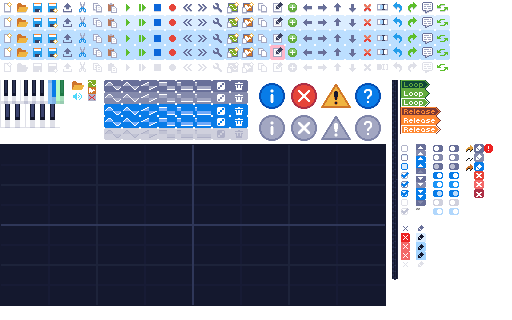
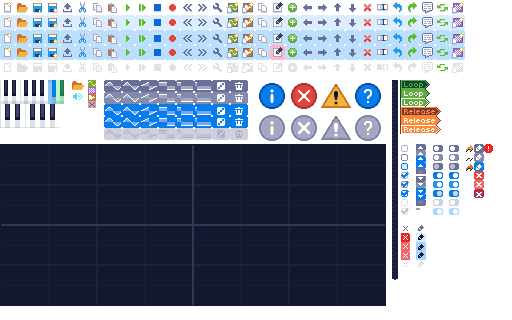
Adds noise generator

Changed region(s): [[0.875, 0.0, 0.9062, 0.25], [0.1562, 0.25, 0.1875, 0.3438]]

diff --git a/Source/Audio/Channel.cs b/Source/Audio/Channel.cs
@@ -1,4 +1,5 @@
-using System;
+using Microsoft.Xna.Framework;
+using System;
 using System.Collections.Generic;
 using System.Runtime.CompilerServices;
 using WaveTracker.Tracker;
@@ -107,6 +108,14 @@ namespace WaveTracker.Audio {
         private float targetFilterCutoffFrequency;
         private float _filterCutoffFrequency;
         private int currentInstrumentID;
+
+        private static Random random = new Random();
+        private double _noiseTime;
+        private float noiseValueC;
+        private float noiseValueL;
+        private float noiseValueR;
+        private static float[] shortNoiseSample;
+        private int noiseLength;
         private enum VoiceState { On, Off, Release }
         private VoiceState _state;
         public bool IsPlaying {
@@ -129,6 +138,11 @@ namespace WaveTracker.Audio {
                 for (int i = 0; i < defaultEnvelopes.Length; i++) {
                     defaultEnvelopes[i] = new Envelope((Envelope.EnvelopeType)i);
                 }
+            }
+            shortNoiseSample = new float[44100*4];
+            noiseLength = shortNoiseSample.Length;
+            for (int i = 0; i < shortNoiseSample.Length; i++) {
+                shortNoiseSample[i] = random.Next() % 4 / 3f - 0.5f;
             }
             stereoBiQuadFilter = new StereoBiQuadFilter();
             Reset();
@@ -425,9 +439,12 @@ namespace WaveTracker.Audio {
         /// </summary>
         public float CurrentAmplitude {
             get {
-                return CurrentInstrument is WaveInstrument
-                    ? TotalAmplitude * (_state == VoiceState.Off ? 0 : 1)
-                    : TotalAmplitude * (_sampleVolume / 1.5f + 0.01f) * (_state == VoiceState.Off ? 0 : 1);
+                if (CurrentInstrument is SampleInstrument) {
+                    return (float)(TotalAmplitude * (_sampleVolume / 1.5f + 0.01f) * (_state == VoiceState.Off ? 0 : 1));
+                }
+                else {
+                    return (float)(TotalAmplitude * (_state == VoiceState.Off ? 0 : 1));
+                }
             }
         }
 
@@ -660,6 +677,16 @@ namespace WaveTracker.Audio {
                 ApplyEffect((char)t.value, t.value2);
             }
         }
+        [MethodImpl(MethodImplOptions.AggressiveInlining)]
+        private float GetNoiseValue(double sample) {
+            return shortNoiseSample[(int)sample % noiseLength];
+            int index1 = (int)sample;
+            int index2 = index1 + 1;
+            float lerp = (float)sample - index1;
+            float sample1 = shortNoiseSample[index1 % noiseLength];
+            float sample2 = shortNoiseSample[index2 % noiseLength];
+            return MathHelper.Lerp(sample1, sample2, lerp);
+        }
 
         public void ProcessSingleSample(out float left, out float right, float continuousDelta) {
             ContinuousTick(continuousDelta);
@@ -695,8 +722,41 @@ namespace WaveTracker.Audio {
                             sampleR = sampleL = EvaluateWave((float)_time);
                         }
                     }
-                    else {
+                    else if (CurrentInstrument is NoiseInstrument) {
+                        double pitchIndex = (CurrentPitch + 12) % 24 / 24f;
+                        double factor = (1 - pitchIndex) * 8 + 1;
+                        factor = Math.Pow(2.0, factor) - 1;
+                        _noiseTime += 88200f / AudioEngine.TrueSampleRate / factor;
+                        if (_noiseTime > noiseLength) {
+                            _noiseTime -= (int)(_noiseTime / noiseLength) * noiseLength;
+                        }
+                        //if (_noiseTime > noiseLength) {
+                        //    _noiseTime -= noiseLength;
+                        //}
+                        //    _noiseTime -= (int)(_noiseTime / factor) * factor;
+                        //    noiseValueL = random.Next() % 5 / 4f - 0.5f;
+                        //    noiseValueC = random.Next() % 5 / 4f - 0.5f;
+                        //    noiseValueR = random.Next() % 5 / 4f - 0.5f;
+                        //}
+                        //sampleL = noiseValueC * (1 - stereoPhaseOffset) + noiseValueL * stereoPhaseOffset;
+                        //sampleR = noiseValueC * (1 - stereoPhaseOffset) + noiseValueR * stereoPhaseOffset;
+                        noiseValueC = GetNoiseValue(_noiseTime);
+                        if (stereoPhaseOffset != 0) {
+                            noiseValueL = GetNoiseValue(_noiseTime + noiseLength * 0.666f);
+                            noiseValueR = GetNoiseValue(_noiseTime + noiseLength * 0.333f);
+                            sampleL = (noiseValueC * (1 - stereoPhaseOffset) + noiseValueL * stereoPhaseOffset) / bassBoost;
+                            sampleR = (noiseValueC * (1 - stereoPhaseOffset) + noiseValueR * stereoPhaseOffset) / bassBoost;
+                        }
+                        else {
+                            sampleL = sampleR = noiseValueC;
+                        }
+                        //noiseValueC = GetNoiseValue((int)(_noiseTime / factor), 0);
+                        //noiseValueL = GetNoiseValue((int)(_noiseTime / factor), 0.33f);
+                        //noiseValueR = GetNoiseValue((int)(_noiseTime / factor), -0.33f);
+                    }
+                    else if (CurrentInstrument is SampleInstrument) {
                         CurrentSample?.SampleTick((float)_time, stereoPhaseOffset, SampleStartOffset / 100f, out sampleL, out sampleR);
+
                         sampleL *= 1.25f;
                         sampleR *= 1.25f;
                         SamplePlaybackPosition = CurrentSample?.currentPlaybackPosition ?? 0;

diff --git a/Source/UI/Visualizer.cs b/Source/UI/Visualizer.cs
@@ -151,20 +151,31 @@ namespace WaveTracker.UI {
                 Channel chan;
                 for (int c = 0; c < ChannelManager.Channels.Count; c++) {
                     chan = ChannelManager.Channels[c];
-
-                    if ((chan.CurrentInstrument is WaveInstrument || chan.CurrentInstrument is SampleInstrument inst && inst.sample.useInVisualization) && chan.CurrentAmplitude > 0.0001f && chan.CurrentPitch >= 12 && chan.CurrentPitch < 132 && ChannelManager.IsChannelOn(c)) {
-                        channelStates[writeIndex][c].Set(chan.CurrentPitch, chan.CurrentAmplitude, chan.CurrentInstrument is WaveInstrument ? GetColorOfWaveFromTable(chan.WaveIndex, chan.WaveMorphPosition) : Color.White);
-                    }
-                    else {
-                        channelStates[writeIndex][c].Clear();
+                    channelStates[writeIndex][c].Clear();
+                    if (ChannelManager.IsChannelOn(c) && !(chan.CurrentInstrument is SampleInstrument inst && !inst.sample.useInVisualization) && chan.CurrentAmplitude > 0.0001f) {
+                        if (chan.CurrentInstrument is WaveInstrument && chan.CurrentPitch >= 12 && chan.CurrentPitch <= 131) {
+                            channelStates[writeIndex][c].Set(chan.CurrentPitch, chan.CurrentAmplitude, GetColorOfWaveFromTable(chan.WaveIndex, chan.WaveMorphPosition));
+                        }
+                        else if (chan.CurrentInstrument is NoiseInstrument) {
+                            channelStates[writeIndex][c].Set((chan.CurrentPitch + 12) % 24 + 12, chan.CurrentAmplitude, Color.White);
+                        }
+                        else if (chan.CurrentPitch >= 12 && chan.CurrentPitch <= 131) {
+                            channelStates[writeIndex][c].Set(chan.CurrentPitch, chan.CurrentAmplitude, Color.White);
+                        }
                     }
                 }
                 chan = ChannelManager.PreviewChannel;
-                if (chan.CurrentAmplitude > 0.0001f) {
-                    channelStates[writeIndex][24].Set(chan.CurrentPitch, chan.CurrentAmplitude, chan.CurrentInstrument is WaveInstrument ? GetColorOfWaveFromTable(chan.WaveIndex, chan.WaveMorphPosition) : Color.White);
-                }
-                else {
-                    channelStates[writeIndex][24].Clear();
+                channelStates[writeIndex][24].Clear();
+                if (!(chan.CurrentInstrument is SampleInstrument inst1 && !inst1.sample.useInVisualization) && chan.CurrentAmplitude > 0.0001f) {
+                    if (chan.CurrentInstrument is WaveInstrument && chan.CurrentPitch >= 12 && chan.CurrentPitch <= 131) {
+                        channelStates[writeIndex][24].Set(chan.CurrentPitch, chan.CurrentAmplitude, GetColorOfWaveFromTable(chan.WaveIndex, chan.WaveMorphPosition));
+                    }
+                    else if (chan.CurrentInstrument is NoiseInstrument) {
+                        channelStates[writeIndex][24].Set((chan.CurrentPitch + 12) % 24 + 12, chan.CurrentAmplitude, Color.White);
+                    }
+                    else if (chan.CurrentPitch >= 12 && chan.CurrentPitch <= 131) {
+                        channelStates[writeIndex][24].Set(chan.CurrentPitch, chan.CurrentAmplitude, Color.White);
+                    }
                 }
                 Array.Sort(channelStates[writeIndex]);
                 writeIndex++;

diff --git a/Source/Rendering/Colors.cs b/Source/Rendering/Colors.cs
@@ -26,6 +26,7 @@ namespace WaveTracker {
                 { "Row text", Helpers.HexCodeToColor("ffffff") },
                 { "Empty dashes tint", Helpers.HexCodeToColor("ffffff12") },
                 { "Instrument (wave)", Helpers.HexCodeToColor("5aea3d") },
+                { "Instrument (noise)", Helpers.HexCodeToColor("e535ff") },
                 { "Instrument (sample)", Helpers.HexCodeToColor("ff9932") },
                 { "Volume", Helpers.HexCodeToColor("50e7e5") },
                 { "Effect", Helpers.HexCodeToColor("ff5277") },
@@ -86,6 +87,7 @@ namespace WaveTracker {
                 ret["Empty dashes tint"] = Helpers.HexCodeToColor("ffffff50");
 
                 ret["Instrument (wave)"] = Helpers.HexCodeToColor("80ff80");
+                ret["Instrument (noise)"] = Helpers.HexCodeToColor("80ff80");
                 ret["Instrument (sample)"] = Helpers.HexCodeToColor("80ff80");
                 ret["Volume"] = Helpers.HexCodeToColor("8080ff");
                 ret["Effect"] = Helpers.HexCodeToColor("ff8080");
@@ -116,6 +118,7 @@ namespace WaveTracker {
                 ret["Empty dashes tint"] = Helpers.HexCodeToColor("ffffff18");
 
                 ret["Instrument (wave)"] = Helpers.HexCodeToColor("ffe239");
+                ret["Instrument (noise)"] = Helpers.HexCodeToColor("ff860d");
                 ret["Instrument (sample)"] = Helpers.HexCodeToColor("ff860d");
                 ret["Volume"] = Helpers.HexCodeToColor("00fdff");
                 ret["Effect"] = Helpers.HexCodeToColor("ff7af6");
@@ -147,6 +150,7 @@ namespace WaveTracker {
                 ret["Empty dashes tint"] = Helpers.HexCodeToColor("ffffff80");
 
                 ret["Instrument (wave)"] = Helpers.HexCodeToColor("008080");
+                ret["Instrument (noise)"] = Helpers.HexCodeToColor("008080");
                 ret["Instrument (sample)"] = Helpers.HexCodeToColor("008080");
                 ret["Volume"] = Helpers.HexCodeToColor("008000");
                 ret["Effect"] = Helpers.HexCodeToColor("800000");
@@ -178,6 +182,7 @@ namespace WaveTracker {
                 ret["Empty dashes tint"] = Helpers.HexCodeToColor("ffffff0c");
 
                 ret["Instrument (wave)"] = Helpers.HexCodeToColor("d4c1a0");
+                ret["Instrument (noise)"] = Helpers.HexCodeToColor("d4c1a0");
                 ret["Instrument (sample)"] = Helpers.HexCodeToColor("d6afa2");
                 ret["Volume"] = Helpers.HexCodeToColor("a8a7de");
                 ret["Effect"] = Helpers.HexCodeToColor("d28bcb");

diff --git a/Source/UI/InstrumentBank.cs b/Source/UI/InstrumentBank.cs
@@ -58,6 +58,7 @@ namespace WaveTracker.UI {
                         new MenuOption("Move down", MoveDown, CurrentInstrumentIndex < App.CurrentModule.Instruments.Count - 1 && !App.VisualizerMode),
                         null,
                         new MenuOption("Add wave instrument",AddWave, App.CurrentModule.Instruments.Count < 100 && !App.VisualizerMode),
+                        new MenuOption("Add noise instrument",AddNoise,App.CurrentModule.Instruments.Count < 100 && !App.VisualizerMode),
                         new MenuOption("Add sample instrument",AddSample,App.CurrentModule.Instruments.Count < 100 && !App.VisualizerMode),
                         new MenuOption("Duplicate",DuplicateInstrument,App.CurrentModule.Instruments.Count < 100 && !App.VisualizerMode),
                         new MenuOption("Remove",RemoveInstrument,App.CurrentModule.Instruments.Count > 1 && !App.VisualizerMode)
@@ -179,6 +180,13 @@ namespace WaveTracker.UI {
             Goto(App.CurrentModule.Instruments.Count - 1);
         }
 
+        public void AddNoise() {
+            App.CurrentModule.Instruments.Add(new NoiseInstrument());
+            App.CurrentModule.SetDirty();
+            CurrentInstrumentIndex = App.CurrentModule.Instruments.Count - 1;
+            Goto(App.CurrentModule.Instruments.Count - 1);
+        }
+
         public void AddSample() {
             App.CurrentModule.Instruments.Add(new SampleInstrument());
             App.CurrentModule.SetDirty();
@@ -218,10 +226,6 @@ namespace WaveTracker.UI {
 
         public void Rename() {
             InputField.Open(GetCurrentInstrument.name, true);
-            //if (!dialogOpen) {
-            //    dialogOpen = true;
-            //    StartRenameDialog();
-            //}
         }
 
         public void Edit() {
@@ -243,7 +247,6 @@ namespace WaveTracker.UI {
             scrollbar.SetSize(App.CurrentModule.Instruments.Count, listLength);
             scrollbar.ScrollValue = Math.Clamp(scrollbar.ScrollValue, 0, Math.Clamp(App.CurrentModule.Instruments.Count - listLength, 0, 100));
             scrollbar.UpdateScrollValue();
-
         }
         public void DrawList() {
             Color odd = new Color(43, 49, 81);

diff --git a/Source/UI/PatternEditor.cs b/Source/UI/PatternEditor.cs
@@ -1189,7 +1189,12 @@ namespace WaveTracker.UI {
             }
             else {
                 string noteName = Helpers.MIDINoteToText(noteValue);
-                if (noteName.Contains('#')) {
+                if (instrumentValue < App.CurrentModule.Instruments.Count && App.CurrentModule.Instruments[instrumentValue] is NoiseInstrument) {
+                    noteName = ((noteValue + 12) % 24).ToString("D2");
+                    WriteMonospaced("#", x + 2, y, rowTextColor, 4);
+                    WriteMonospaced(noteName, x + 8, y, rowTextColor, 4);
+                }
+                else if (noteName.Contains('#')) {
                     Write(noteName, x + 2, y, rowTextColor);
                 }
                 else {
@@ -1207,6 +1212,9 @@ namespace WaveTracker.UI {
                 if (instrumentValue < App.CurrentModule.Instruments.Count) {
                     if (App.CurrentModule.Instruments[instrumentValue] is WaveInstrument) {
                         instrumentColor = App.Settings.Colors.Theme["Instrument (wave)"];
+                    }
+                    else if (App.CurrentModule.Instruments[instrumentValue] is NoiseInstrument) {
+                        instrumentColor = App.Settings.Colors.Theme["Instrument (noise)"];
                     }
                     else {
                         instrumentColor = App.Settings.Colors.Theme["Instrument (sample)"];

diff --git a/Source/Tracker/NoiseInstrument.cs b/Source/Tracker/NoiseInstrument.cs
@@ -1,0 +1,24 @@
+using System;
+using System.Collections.Generic;
+using System.Linq;
+using System.Text;
+using System.Threading.Tasks;
+
+namespace WaveTracker.Tracker {
+    public class NoiseInstrument : Instrument {
+        public NoiseInstrument() : base() {
+            name = "New Noise Instrument";
+        }
+
+        public override NoiseInstrument Clone() {
+            NoiseInstrument m = new NoiseInstrument();
+            m.name = name;
+            m.envelopes = [];
+            foreach (Envelope envelope in envelopes) {
+                m.envelopes.Add(envelope.Clone());
+            }
+            return m;
+        }
+    }
+}
+

diff --git a/Source/Tracker/Instrument.cs b/Source/Tracker/Instrument.cs
@@ -8,6 +8,7 @@ namespace WaveTracker.Tracker {
     [ProtoContract]
     [ProtoInclude(10, typeof(WaveInstrument))]
     [ProtoInclude(20, typeof(SampleInstrument))]
+    [ProtoInclude(30, typeof(NoiseInstrument))]
     public abstract class Instrument {
         [ProtoMember(1)]
         public string name;
